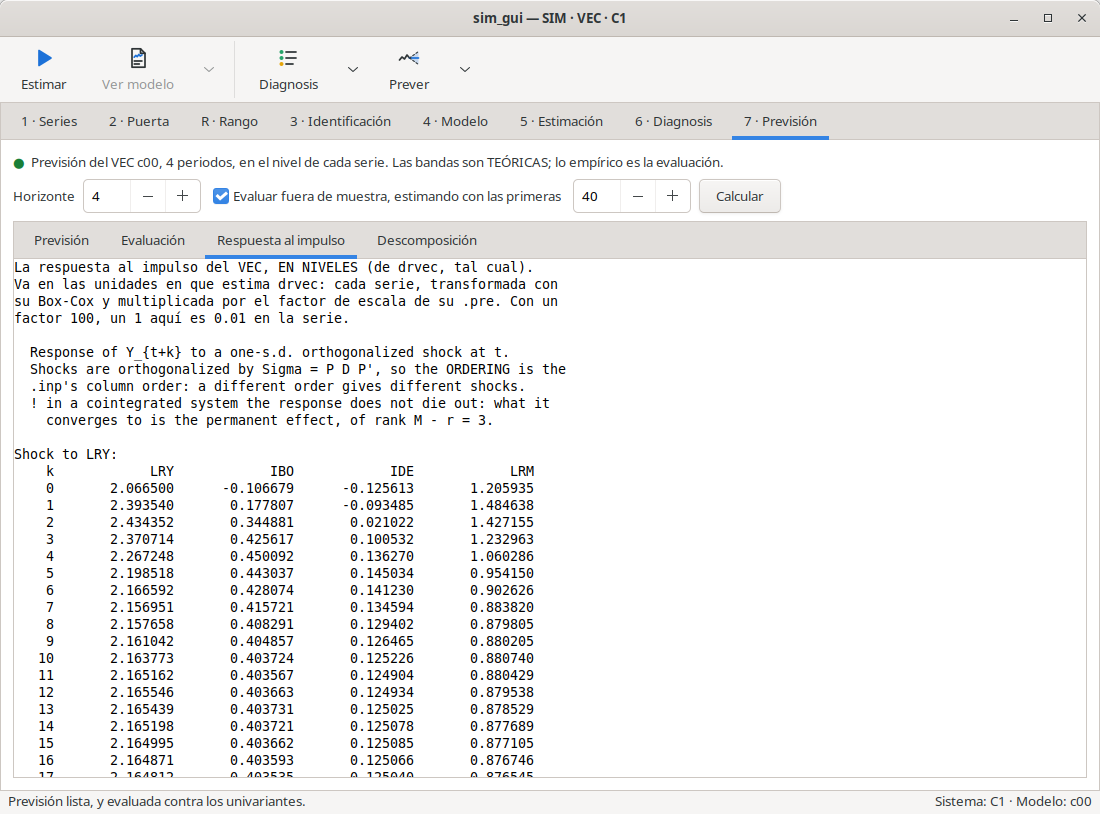
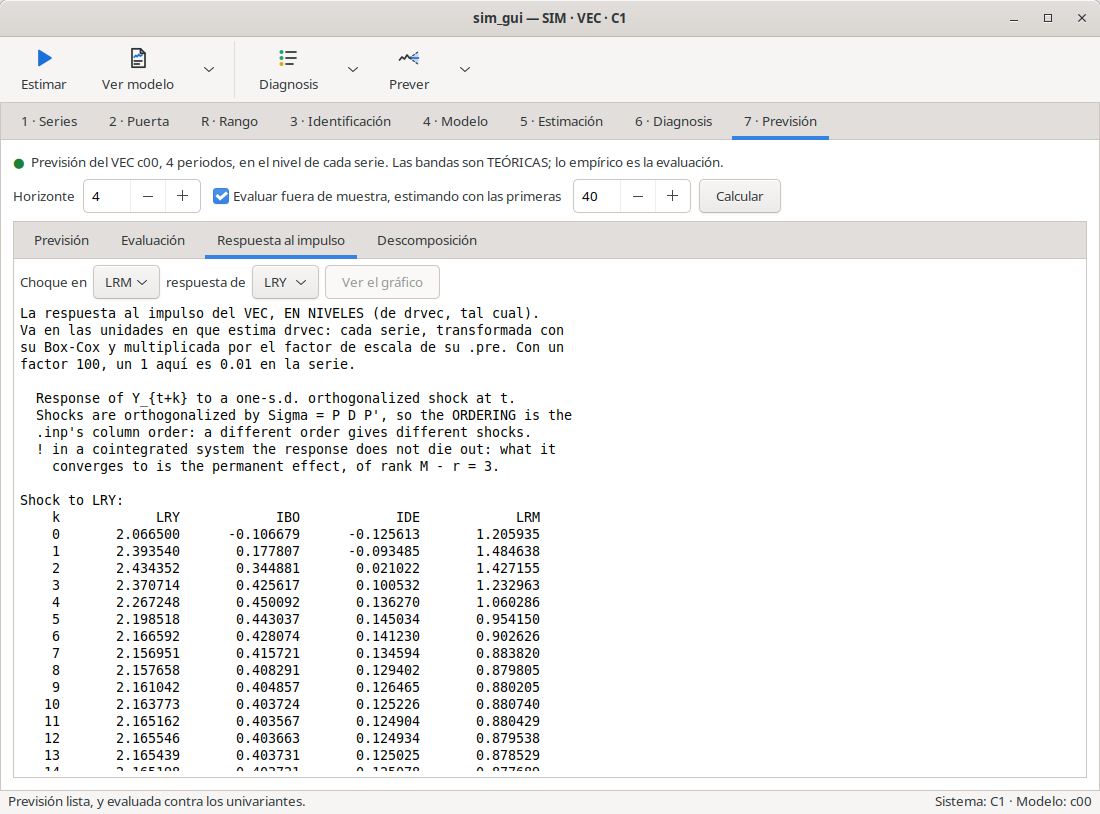
Manual, sección 7 del VEC: la tabla y el gráfico de fuf, con las fotos rehechas
- La previsión del VEC sale en la tabla de fue y drtran, con la banda del
  95 % debajo, y los botones «Gráfico de…» dibujan el gráfico de fue. Foto
  nueva vec-prevision-grafico (el de LRM), con su paso en la escena 10.
- Las escenas 09 y 10 rehechas con el programa de hoy: las cifras no se
  mueven; cambian la tabla de la previsión, los desplegables de la IRF y
  el botón «Ver modelo», que ahora sale encendido.

Changed region(s): [[0.0, 0.3071, 0.5255, 0.9521], [0.0927, 0.0921, 0.1545, 0.1229]]

diff --git a/docs/manual/MANUAL.md b/docs/manual/MANUAL.md
@@ -1373,8 +1373,17 @@ primeras** 40 observaciones. Pulsa **Calcular**:
 ![La previsión del VEC](img/vec-prevision.png)
 
 La previsión de cada serie un año hacia delante, desde 1987.4, **en su nivel**:
-drvec deshace la diferencia y la relación de equilibrio. Las bandas, como
-siempre, son teóricas. La evaluación:
+drvec deshace la diferencia y la relación de equilibrio. Sale en la misma tabla
+que con un VARMA, la de fue y de drtran: las últimas observaciones con su error
+a un periodo (ERR) y las previsiones con las desviaciones del nivel, de la
+variación trimestral y de la anual. Debajo, la banda del 95 % del nivel. Los
+botones **Gráfico de…** dibujan el gráfico de fue; el del dinero:
+
+![El gráfico de la previsión del VEC](img/vec-prevision-grafico.png)
+
+Arriba, la variación anual de LRM con sus bandas; debajo, los errores a un
+periodo de las últimas observaciones. Las bandas, como siempre, son teóricas.
+La evaluación:
 
 ![La evaluación del VEC](img/vec-evaluacion.png)
 
